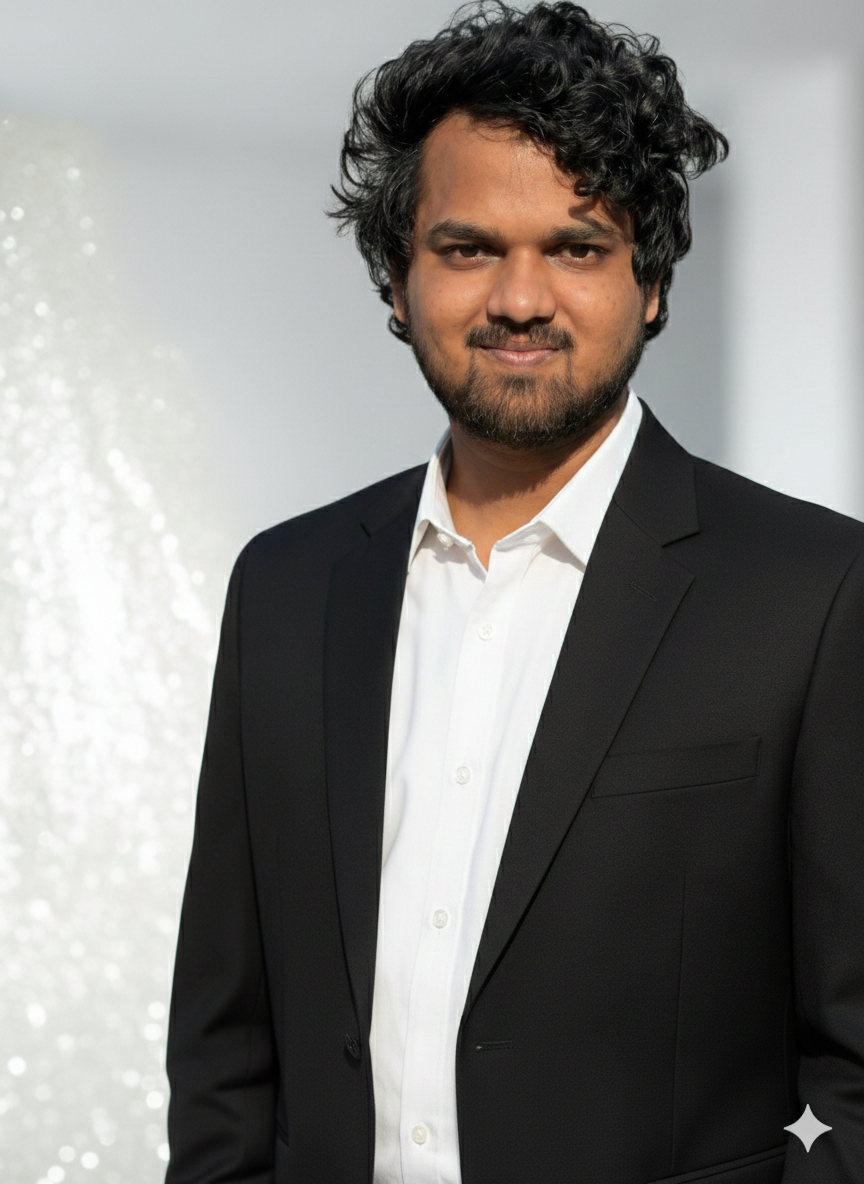
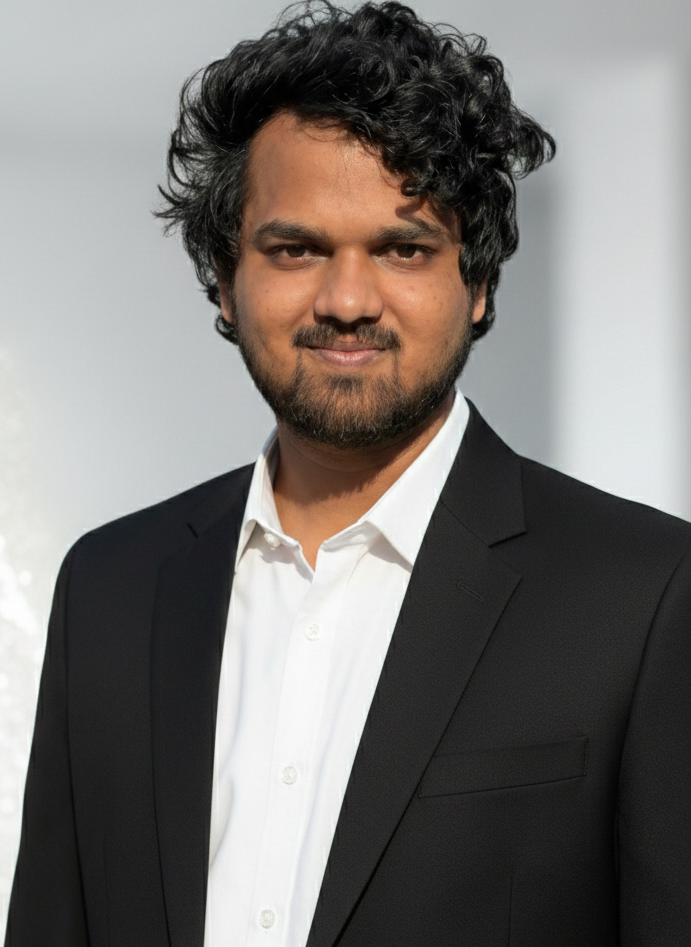
updated images

diff --git a/css/mariposa.css b/css/mariposa.css
@@ -851,6 +851,138 @@ h1, h2, h3, h4, h5, h6, .heading-font, .secondary-font, .font-weight-bold {
   display: none;
 }
 
+/* ── Team Section ──────────────────────────────────────────── */
+#team {
+  position: relative;
+  z-index: 1;
+  background: transparent;
+}
+.team-grid {
+  display: grid;
+  grid-template-columns: repeat(2, 1fr);
+  gap: 28px;
+  max-width: 560px;
+  margin: 0 auto;
+}
+.team-grid--advisors {
+  grid-template-columns: repeat(3, 1fr);
+  max-width: 780px;
+}
+.team-card {
+  background: rgba(255, 255, 255, 0.82);
+  backdrop-filter: blur(8px);
+  -webkit-backdrop-filter: blur(8px);
+  border-radius: 20px;
+  overflow: hidden;
+  border: 1px solid #E2E8F0;
+  box-shadow: 0 4px 20px rgba(0, 0, 0, 0.04);
+  transition: transform 0.5s cubic-bezier(0.22, 1, 0.36, 1),
+              box-shadow 0.5s cubic-bezier(0.22, 1, 0.36, 1),
+              border-color 0.4s ease;
+  position: relative;
+}
+.team-card:hover {
+  transform: translateY(-8px);
+  box-shadow: 0 20px 48px rgba(59, 130, 246, 0.14);
+  border-color: #93C5FD;
+}
+.team-card__img-wrap {
+  width: 100%;
+  aspect-ratio: 1 / 1;
+  overflow: hidden;
+  background: linear-gradient(135deg, #F8FAFC 0%, #EFF6FF 50%, #F1F5F9 100%);
+  background-size: 200% 200%;
+  animation: placeholderShimmer 3s ease infinite;
+}
+.team-card__img {
+  width: 100%;
+  height: 100%;
+  object-fit: cover;
+  object-position: center top;
+  display: block;
+  transition: transform 0.5s cubic-bezier(0.22, 1, 0.36, 1);
+}
+.team-card:hover .team-card__img {
+  transform: scale(1.05);
+}
+/* Malte: nudge image upward */
+.team-card__img[alt="Malte Borggrewe"] {
+  object-position: center 20%;
+}
+.team-card__info {
+  padding: 20px 20px 24px;
+  text-align: center;
+}
+.team-card__name {
+  font-family: 'Inter', sans-serif;
+  font-size: 1rem;
+  font-weight: 700;
+  color: #0F172A;
+  margin: 0 0 4px;
+}
+.team-card__role {
+  font-family: 'Inter', sans-serif;
+  font-size: 0.82rem;
+  font-weight: 600;
+  color: #3B82F6;
+  margin: 0 0 6px;
+}
+.team-card__location {
+  font-family: 'Inter', sans-serif;
+  font-size: 0.78rem;
+  color: #94A3B8;
+  margin: 0 0 12px;
+  display: flex;
+  align-items: center;
+  justify-content: center;
+  gap: 4px;
+}
+.team-card__linkedin {
+  display: inline-flex;
+  align-items: center;
+  justify-content: center;
+  width: 36px;
+  height: 36px;
+  border-radius: 10px;
+  background: #EFF6FF;
+  color: #3B82F6;
+  transition: background 0.3s ease, color 0.3s ease, transform 0.3s ease;
+}
+.team-card__linkedin:hover {
+  background: #3B82F6;
+  color: #fff;
+  transform: translateY(-2px);
+}
+.team-divider {
+  width: 80px;
+  height: 2px;
+  background: linear-gradient(90deg, #3B82F6, #93C5FD);
+  margin: 64px auto;
+  border-radius: 1px;
+}
+@media (max-width: 768px) {
+  .team-grid {
+    grid-template-columns: repeat(2, 1fr);
+    gap: 20px;
+  }
+  .team-grid--advisors {
+    grid-template-columns: repeat(2, 1fr);
+  }
+  .team-card__info {
+    padding: 16px 14px 20px;
+  }
+  .team-card__name {
+    font-size: 0.9rem;
+  }
+}
+@media (max-width: 480px) {
+  .team-grid,
+  .team-grid--advisors {
+    grid-template-columns: 1fr 1fr;
+    gap: 16px;
+  }
+}
+
 /* ── "broken bridge" highlight color → teal ────────────────── */
 .el-418e442d-1.pix-highlight-bg {
   background-image: linear-gradient(to right, #4aafb6 0%, #4aafb6 100%) !important;

diff --git a/js/mariposa.js b/js/mariposa.js
@@ -371,6 +371,12 @@
       form_submit: 'Join the waitlist',
       form_thanks_title: 'Thank you!',
       form_thanks_msg: 'Thank you for your interest in Mariposa. We will contact you as soon as there are updates.',
+      team_founders_label: 'Founders',
+      team_founders_h2: 'Meet our founders',
+      team_founders_desc: 'What started as a shared frustration became a shared mission. Four people from different backgrounds, united by one belief: talent deserves better guidance.',
+      team_advisors_label: 'Advisors',
+      team_advisors_h2: 'Meet our board of advisors',
+      team_advisors_desc: 'An interdisciplinary advisory board that brings deep expertise in AI, data, design, and education to help shape Mariposa\u2019s vision.',
       footer_links_title: 'Links',
       footer_privacy: 'Privacy Policy',
       footer_imprint: 'Imprint'
@@ -441,6 +447,12 @@
       form_submit: 'Zur Warteliste',
       form_thanks_title: 'Vielen Dank!',
       form_thanks_msg: 'Vielen Dank f\u00fcr Ihr Interesse an Mariposa. Wir melden uns, sobald es Neuigkeiten gibt.',
+      team_founders_label: 'Gr\u00fcnder',
+      team_founders_h2: 'Unser Gr\u00fcndungsteam',
+      team_founders_desc: 'Was als gemeinsame Frustration begann, wurde zu einer gemeinsamen Mission. Vier Menschen mit unterschiedlichen Hintergr\u00fcnden, vereint durch eine \u00dcberzeugung: Talent verdient bessere F\u00f6rderung.',
+      team_advisors_label: 'Beirat',
+      team_advisors_h2: 'Unser Beirat',
+      team_advisors_desc: 'Ein interdisziplin\u00e4rer Beirat, der tiefgreifende Expertise in KI, Daten, Design und Bildung einbringt, um Mariposas Vision mitzugestalten.',
       footer_links_title: 'Links',
       footer_privacy: 'Datenschutz',
       footer_imprint: 'Impressum'
@@ -511,6 +523,12 @@
       form_submit: '\u00danete a la lista',
       form_thanks_title: '\u00a1Gracias!',
       form_thanks_msg: 'Gracias por tu inter\u00e9s en Mariposa. Te contactaremos cuando haya novedades.',
+      team_founders_label: 'Fundadores',
+      team_founders_h2: 'Conoce a nuestros fundadores',
+      team_founders_desc: 'Lo que comenz\u00f3 como una frustraci\u00f3n compartida se convirti\u00f3 en una misi\u00f3n com\u00fan. Cuatro personas de diferentes or\u00edgenes, unidas por una creencia: el talento merece mejor orientaci\u00f3n.',
+      team_advisors_label: 'Asesores',
+      team_advisors_h2: 'Nuestro consejo asesor',
+      team_advisors_desc: 'Un consejo asesor interdisciplinario que aporta experiencia en IA, datos, dise\u00f1o y educaci\u00f3n para dar forma a la visi\u00f3n de Mariposa.',
       footer_links_title: 'Enlaces',
       footer_privacy: 'Privacidad',
       footer_imprint: 'Aviso legal'

diff --git a/index.html b/index.html
@@ -757,7 +757,7 @@
               <!-- Malte Borggrewe -->
               <div class="team-card">
                 <div class="team-card__img-wrap">
-                  <img src="assets/malteborggrewe.jpg" alt="Malte Borggrewe" class="team-card__img" loading="lazy">
+                  <img src="assets/malteborggrewe.png" alt="Malte Borggrewe" class="team-card__img" loading="lazy">
                 </div>
                 <div class="team-card__info">
                   <h4 class="team-card__name">Malte Borggrewe</h4>
